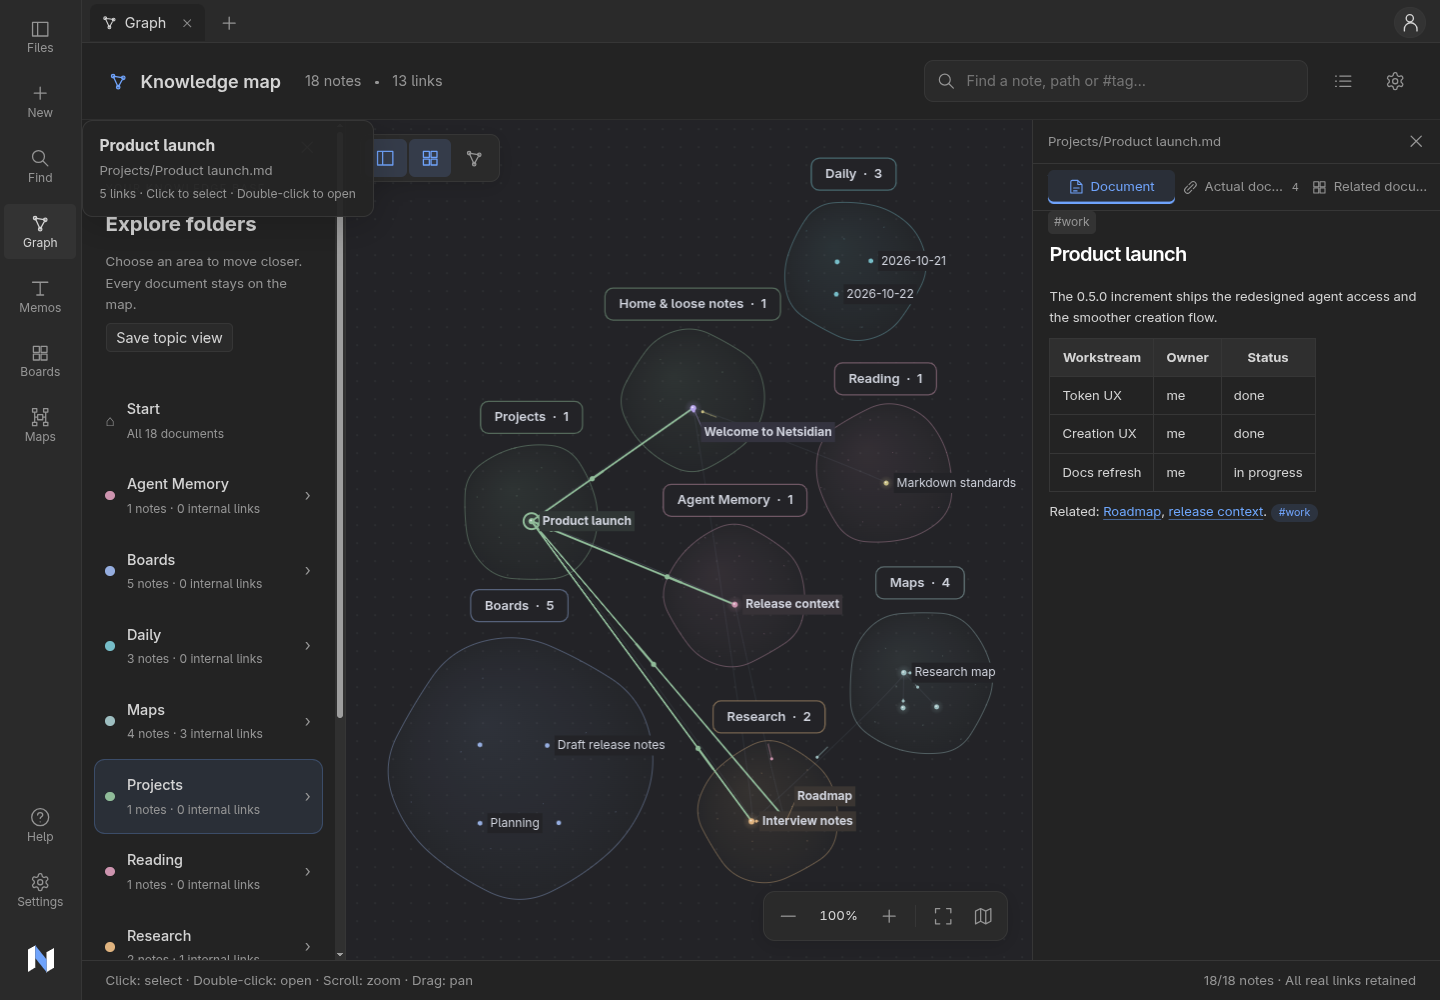
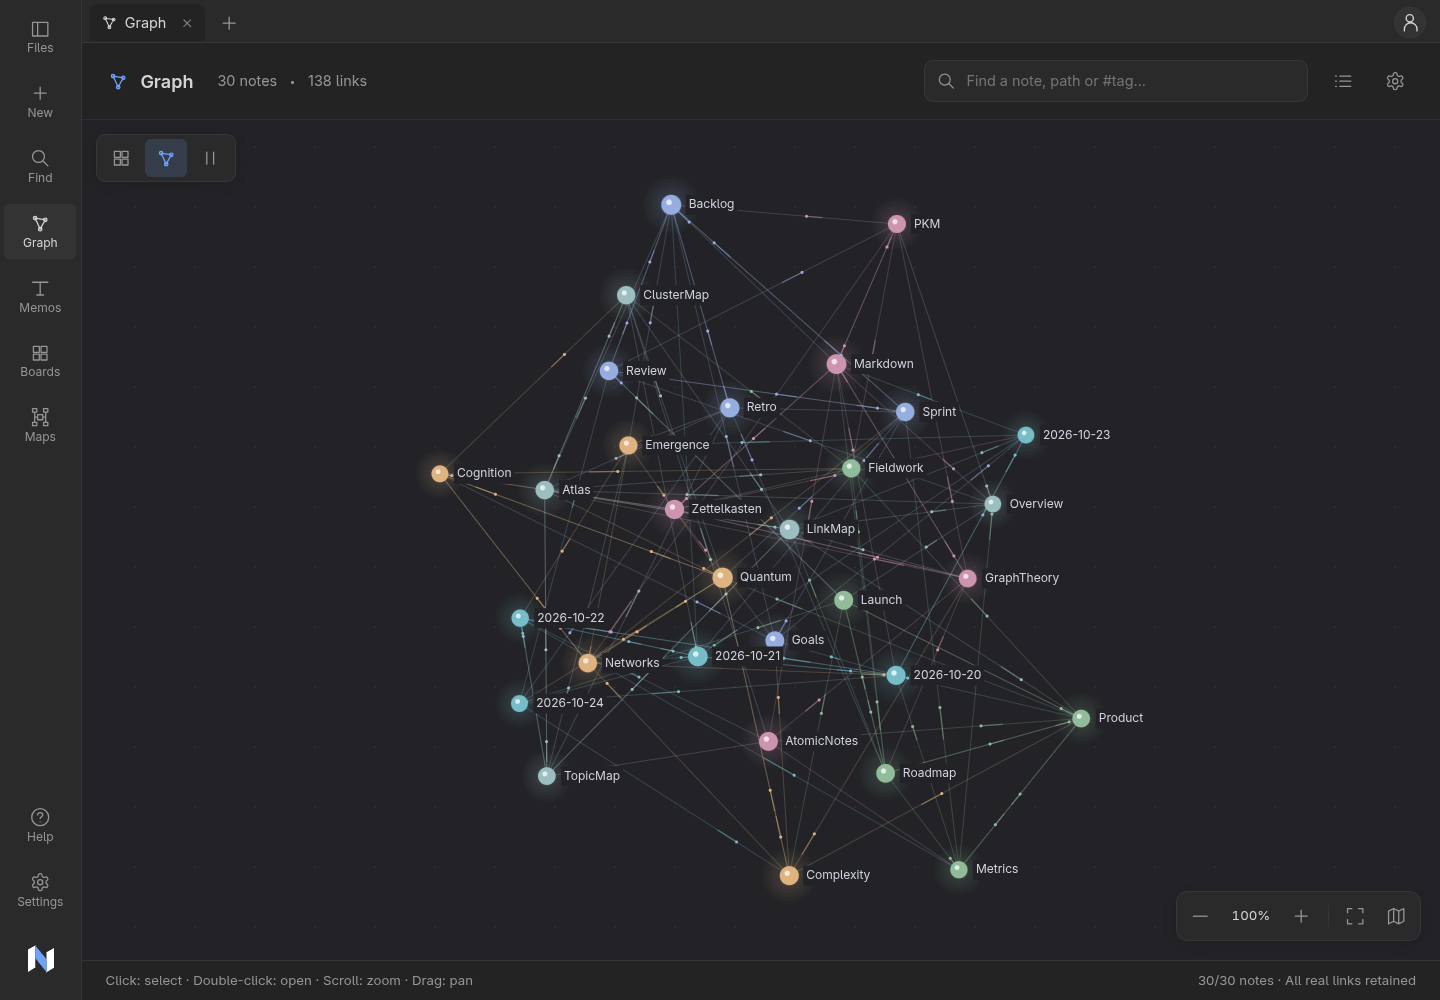
feat: rename graph view title to Graph; denser graph + topic atlas screenshots
Rename the graph view's visible title from 'Knowledge map' to 'Graph' to match
its existing aria-label. Replace the README hero with a denser link-layout
capture (30 notes, 138 links) and add a topic-atlas capture at the end of the
gallery. Update the roadmap screenshot follow-up accordingly.

diff --git a/frontend/src/components/Graph2.tsx b/frontend/src/components/Graph2.tsx
@@ -75,7 +75,7 @@ export default function Graph2({space,root,onOpen,epoch=0,minimapDefault=false}:
  const focus=(n:Graph2Node)=>{engine.current?.focus(n.id);setSelected(n.id);setPreviewOpen(true);setControls(false);try{localStorage.setItem(key+':controls','false')}catch{};setQuery('');const region=regions.find(r=>r.parent&&r.ids.includes(n.id))||regions.find(r=>!r.parent&&r.ids.includes(n.id));setActiveRegion(region?.id||'')};
  return <section className={'graph2'+(root?' graph2-local':'')+(settings.layout==='atlas'?' graph2-atlas':'')+(settings.layout==='atlas'&&!topicsVisible?' g2-topics-hidden':'')} aria-label={root?'Local graph':'Graph'}>
   {saveViewOpen&&<Dialog title="Save topic view" close={()=>setSaveViewOpen(false)}><form onSubmit={e=>{e.preventDefault();const name=viewName.trim();if(!name)return;try{localStorage.setItem(key+':topic-views',JSON.stringify([...topicViews.filter(v=>v.name!==name),{name,filter:settings.filter,tag:settings.tag,folder:settings.folder,groupBy:settings.groupBy}].slice(-20)));setViewVersion(v=>v+1);setSaveViewOpen(false)}catch{setPreviewError('This browser could not save the topic view.')}}}><label>Name<input data-autofocus aria-label="Topic view name" value={viewName} onChange={e=>setViewName(e.target.value)} required/></label><p>Remembers topic grouping, folder, tag and search filters.</p><footer><button className="btn" type="button" onClick={()=>setSaveViewOpen(false)}>Cancel</button><button className="btn primary" disabled={!viewName.trim()}>Save view</button></footer></form></Dialog>}
-  <header className="g2-header"><div className="g2-heading"><Icon name="graph"/><strong>{root?'Local knowledge map':'Knowledge map'}</strong><span className="g2-count">{documents.length.toLocaleString()} notes <i/> {realLinkCount.toLocaleString()} links</span></div>
+  <header className="g2-header"><div className="g2-heading"><Icon name="graph"/><strong>{root?'Local graph':'Graph'}</strong><span className="g2-count">{documents.length.toLocaleString()} notes <i/> {realLinkCount.toLocaleString()} links</span></div>
 <div className="g2-search"><Icon name="search"/><input aria-label="Find a note in Graph 2" placeholder="Find a note, path or #tag…" value={query} onChange={e=>{setQuery(e.target.value);setListLimit(100);setResultCursor(0)}} onKeyDown={e=>{if(e.key==='ArrowDown'||e.key==='ArrowUp'){e.preventDefault();const next=Math.max(0,Math.min(results.length-1,resultCursor+(e.key==='ArrowDown'?1:-1)));setResultCursor(next);setListLimit(n=>Math.max(n,next+1));requestAnimationFrame(()=>document.querySelector(`[data-graph-result="${next}"]`)?.scrollIntoView({block:'nearest'}))}if(e.key==='Enter'&&results[resultCursor]){e.preventDefault();focus(results[resultCursor])}if(e.key==='Escape')setQuery('')}}/>{query&&<Tool icon="close" label="Clear graph search" onClick={()=>setQuery('')}/>}</div>
    <Tool icon="list" label="Graph document list" active={list} onClick={()=>{setList(!list);if(!list&&innerWidth<1100){setControls(false);try{localStorage.setItem(key+':controls','false')}catch{}}}}/><Tool icon="settings" label="Graph settings" active={controls} onClick={()=>{if(!controls)setPreviewOpen(false);setControls(!controls);try{localStorage.setItem(key+':controls',JSON.stringify(!controls))}catch{}}}/>
   </header>

diff --git a/docs/roadmap-state.md b/docs/roadmap-state.md
@@ -271,17 +271,24 @@ default) was bumped and custom release notes were prepared in
 
 ### Screenshot follow-up (0.5.0)
 
-- Refreshed all 11 README screenshots from the published 0.5.0 image: knowledge
-  map, appearance, document reading mode, Memos, Kanban, mind map, MCP/agent
-  settings, PDF viewer, file explorer, empty vault and the sign-in screen with
-  the MCP instructions panel. Eleven real 1440x1000 captures with accurate
-  captions and all 11 README image links checked. The captures show the
-  redesigned default accent (#70a4fb), the new Refresh file list button, the
-  linked memory references on the knowledge map, and the PDF Convert to Markdown
-  action.
+- Refreshed all 12 README screenshots from the published 0.5.0 image: graph link
+  layout, appearance, document reading mode, Memos, Kanban, mind map, MCP/agent
+  settings, PDF viewer, file explorer, empty vault, the sign-in screen with the
+  MCP instructions panel, and the graph topic atlas. Twelve real 1440x1000
+  captures with accurate captions and all 12 README image links checked. The
+  captures show the redesigned default accent (#70a4fb), the new Refresh file
+  list button, and the PDF Convert to Markdown action.
 - Captures used isolated tmpfs test data in a temporary Docker container
   (netsidian-shots, ghcr.io/pentaqilo/netsidian:0.5.0, host port 3011) seeded via
   the REST API: one Demo vault with notes, a Kanban board, a mind map with a
   linked note and connectors, memos, a knowledge map and one PDF attachment. The
   container and its tmpfs data were removed after capture; no shared/review
   content was touched and no real tokens were created.
+- Graph follow-up: renamed the graph view's visible title from "Knowledge map" to
+  "Graph" (Graph2.tsx; the section aria-label already read "Graph"). The hero
+  knowledge-map.png now shows a denser link layout (30 notes, 138 links) and a new
+  topic-atlas.png shows the atlas layout with folder regions and the knowledge-base
+  sidebar. Because the rename is not in the published 0.5.0 image, these two
+  captures came from a source-built image (netsidian:shots) in the same isolated
+  tmpfs container, seeded with 30 cross-linked notes across six folders; the
+  container and its data were removed afterwards.

diff --git a/README.md b/README.md
@@ -6,7 +6,7 @@ Netsidian runs on hardware you control. Your notes stay plain `.md` files in a n
 
 ---
 
-![Knowledge map with folder colors and an inline document preview](docs/screenshots/knowledge-map.png)
+![Graph link layout with notes colored by folder and dense cross-links](docs/screenshots/knowledge-map.png)
 
 ## Features
 
@@ -195,6 +195,10 @@ Release automation runs on version tags such as `0.2.0`. It publishes the GitHub
 ### Sign-in with MCP instructions
 
 ![Sign-in screen with the expandable MCP instructions panel at the bottom left](docs/screenshots/login-mcp.png)
+
+### Graph topic atlas
+
+![Topic atlas layout grouping notes into folder regions with a knowledge-base sidebar](docs/screenshots/topic-atlas.png)
 
 
 
